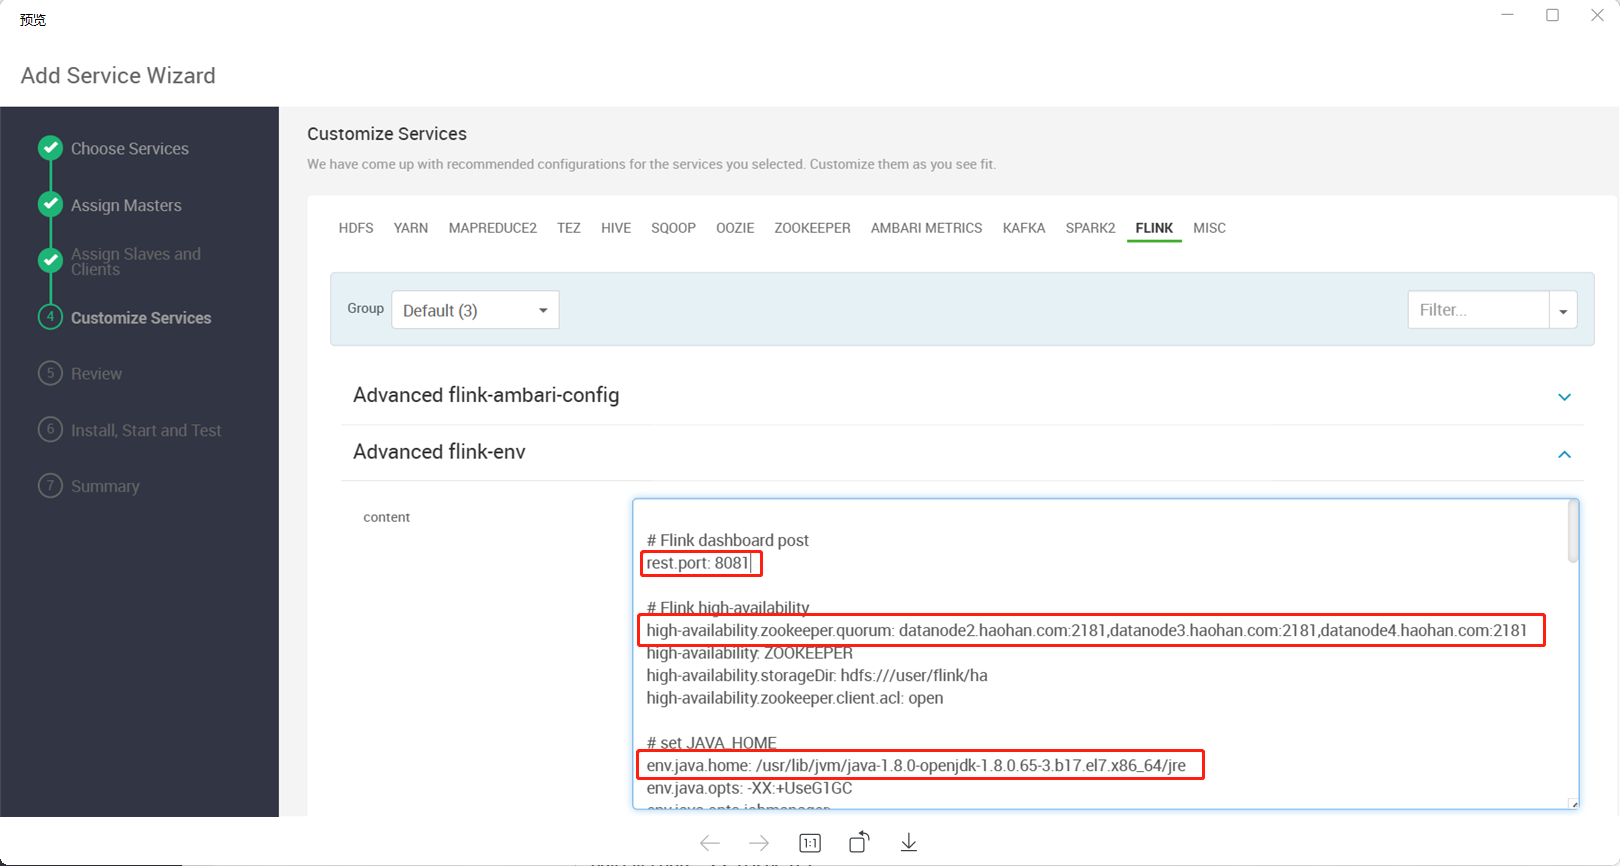
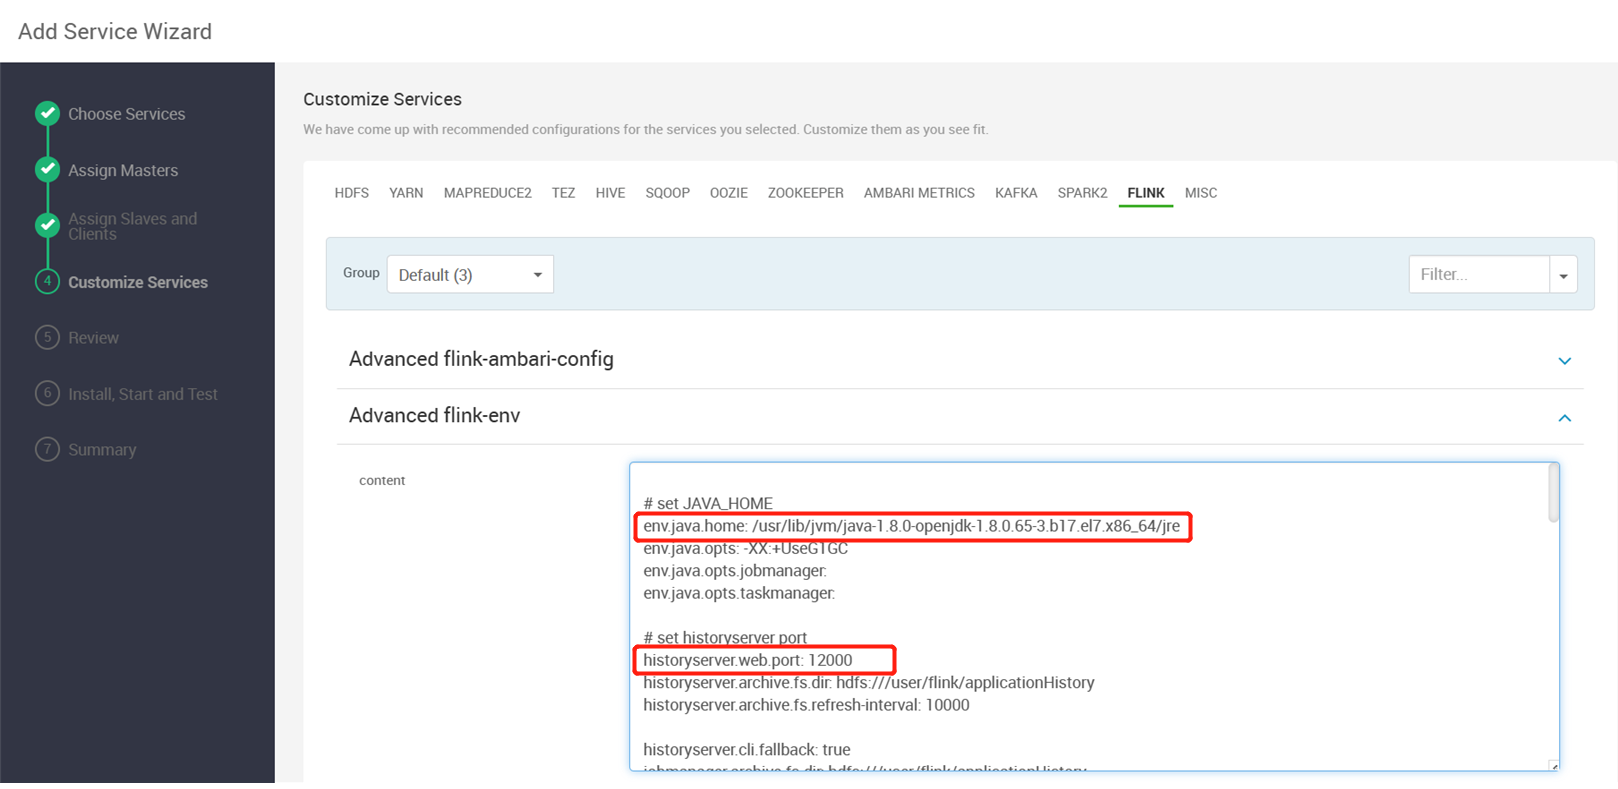
关闭JobManager高可用；start命令和快速链接绑定到HistoryServer

diff --git a/package/scripts/flink.py b/package/scripts/flink.py
@@ -92,10 +92,13 @@ class Master(Script):
     import params
     import status_params    
     from resource_management.core import sudo
-    pid = str(sudo.read_file(status_params.flink_pid_file))
-    Execute('yarn application -kill ' + pid, user=params.flink_user)
-
+    self.set_conf_bin(env)  
+    Execute(format("{params.bin_dir}/historyserver.sh stop 2>/dev/null"), user=params.flink_user)
     Execute('rm ' + status_params.flink_pid_file, ignore_failures=True)
+    # pid = str(sudo.read_file(status_params.flink_pid_file))
+    # Execute('yarn application -kill ' + pid, user=params.flink_user)
+
+    # Execute('rm ' + status_params.flink_pid_file, ignore_failures=True)
  
       
   def start(self, env):
@@ -106,15 +109,19 @@ class Master(Script):
     
     self.create_hdfs_user(params.flink_user)
 
-    Execute('echo bin dir ' + params.bin_dir)        
-    Execute('echo pid file ' + status_params.flink_pid_file)
     cmd_open = subprocess.Popen(["hadoop", "classpath"], stdout=subprocess.PIPE, stderr=subprocess.PIPE)
     hadoop_classpath = cmd_open.communicate()[0].strip()
-    cmd = format("export HADOOP_CONF_DIR={hadoop_conf_dir}; export HADOOP_CLASSPATH={hadoop_classpath}; {bin_dir}/yarn-session.sh -d -nm {flink_appname} -n {flink_numcontainers} -s {flink_numberoftaskslots} -jm {flink_jobmanager_memory} -tm {flink_container_memory} -qu {flink_queue}")
-    if params.flink_streaming:
-      cmd = cmd + ' -st '
-    Execute (cmd + format(" >> {flink_log_file}"), user=params.flink_user)
-    Execute("yarn application -list 2>/dev/null | awk '/" + params.flink_appname + "/ {print $1}' | head -n1 > " + status_params.flink_pid_file, user=params.flink_user)
+    cmd = format("export HADOOP_CONF_DIR={hadoop_conf_dir}; export HADOOP_CLASSPATH={hadoop_classpath}; {params.bin_dir}/historyserver.sh start")
+    Execute(cmd, user=params.flink_user)
+    # Execute('echo bin dir ' + params.bin_dir)
+    # Execute('echo pid file ' + status_params.flink_pid_file)
+    # cmd_open = subprocess.Popen(["hadoop", "classpath"], stdout=subprocess.PIPE, stderr=subprocess.PIPE)
+    # hadoop_classpath = cmd_open.communicate()[0].strip()
+    # cmd = format("export HADOOP_CONF_DIR={hadoop_conf_dir}; export HADOOP_CLASSPATH={hadoop_classpath}; {bin_dir}/yarn-session.sh -d -nm {flink_appname} -n {flink_numcontainers} -s {flink_numberoftaskslots} -jm {flink_jobmanager_memory} -tm {flink_container_memory} -qu {flink_queue}")
+    # if params.flink_streaming:
+    #   cmd = cmd + ' -st '
+    # Execute (cmd + format(" >> {flink_log_file}"), user=params.flink_user)
+    # Execute("yarn application -list 2>/dev/null | awk '/" + params.flink_appname + "/ {print $1}' | head -n1 > " + status_params.flink_pid_file, user=params.flink_user)
     #Execute('chown '+params.flink_user+':'+params.flink_group+' ' + status_params.flink_pid_file)
 
 
@@ -126,16 +133,16 @@ class Master(Script):
     import shlex, subprocess
     if not pid_file or not os.path.isfile(pid_file):
       raise ComponentIsNotRunning()
-    try:
-      pid = str(sudo.read_file(pid_file)) 
-      cmd_line = "/usr/bin/yarn application -list"
-      args = shlex.split(cmd_line)
-      proc = Popen(args, stdout=PIPE)
-      p = str(proc.communicate()[0].split())
-      if p.find(pid.strip()) < 0:
-        raise ComponentIsNotRunning() 
-    except Exception, e:
-      raise ComponentIsNotRunning()
+    # try:
+    #   pid = str(sudo.read_file(pid_file)) 
+    #   cmd_line = "/usr/bin/yarn application -list"
+    #   args = shlex.split(cmd_line)
+    #   proc = Popen(args, stdout=PIPE)
+    #   p = str(proc.communicate()[0].split())
+    #   if p.find(pid.strip()) < 0:
+    #     raise ComponentIsNotRunning() 
+    # except Exception, e:
+    #   raise ComponentIsNotRunning()
 
   def status(self, env):
     import status_params       

diff --git a/package/scripts/status_params.py b/package/scripts/status_params.py
@@ -5,5 +5,5 @@ import sys, os
 config = Script.get_config()
 
 flink_pid_dir=config['configurations']['flink-env']['flink_pid_dir']
-flink_pid_file=flink_pid_dir + '/flink.pid'
+flink_pid_file='/tmp/flink-flink-historyserver.pid'
 

diff --git a/README.md b/README.md
@@ -47,6 +47,7 @@ useradd -d /home/flink -g flink flink
 
 然后添加服务并选择需要安装的服务器，随后修改关键配置信息
 ![Image](screenshots/edit-configuation.png?raw=true)
+不建议开启JobManager高可用模式，那样会导致Flink ID始终为`00000000000000000000000000000000`，在保存已完成作业数据到`jobmanager.archive.fs.dir`目录时会报错文件已存在
 
 检查没问题之后开始安装
 ![Image](screenshots/deploy.png?raw=true)
@@ -57,9 +58,6 @@ useradd -d /home/flink -g flink flink
 
 安装完成
 ![Image](screenshots/flink-status.png?raw=true)
-
-Flink Dashboard，有一个问题是它的地址取决于启动Flink时使用的是哪个NodeManager的Container，这是随机的，所以快速链接有时并不管用。而且提交单作业的时候这里是监控不到的，在Yarn界面中的ApplicationMaster地址中可以看到作业对应的Dashboard
-![Image](screenshots/flink-dashboard.png?raw=true)
 
 安装完成后如需在服务器执行Flink命令还需执行下面的命令
 ```bash
@@ -74,3 +72,5 @@ echo "export HADOOP_CLASSPATH=`hadoop classpath`" >> ~/.bashrc
 flink run -m yarn-cluster examples/batch/WordCount.jar
 ```
 ![Image](screenshots/flink-test.png?raw=true)
+
+安装完成后的快速链接是Flink History Server服务的，默认端口是12000，配置项对应`historyserver.web.port`
